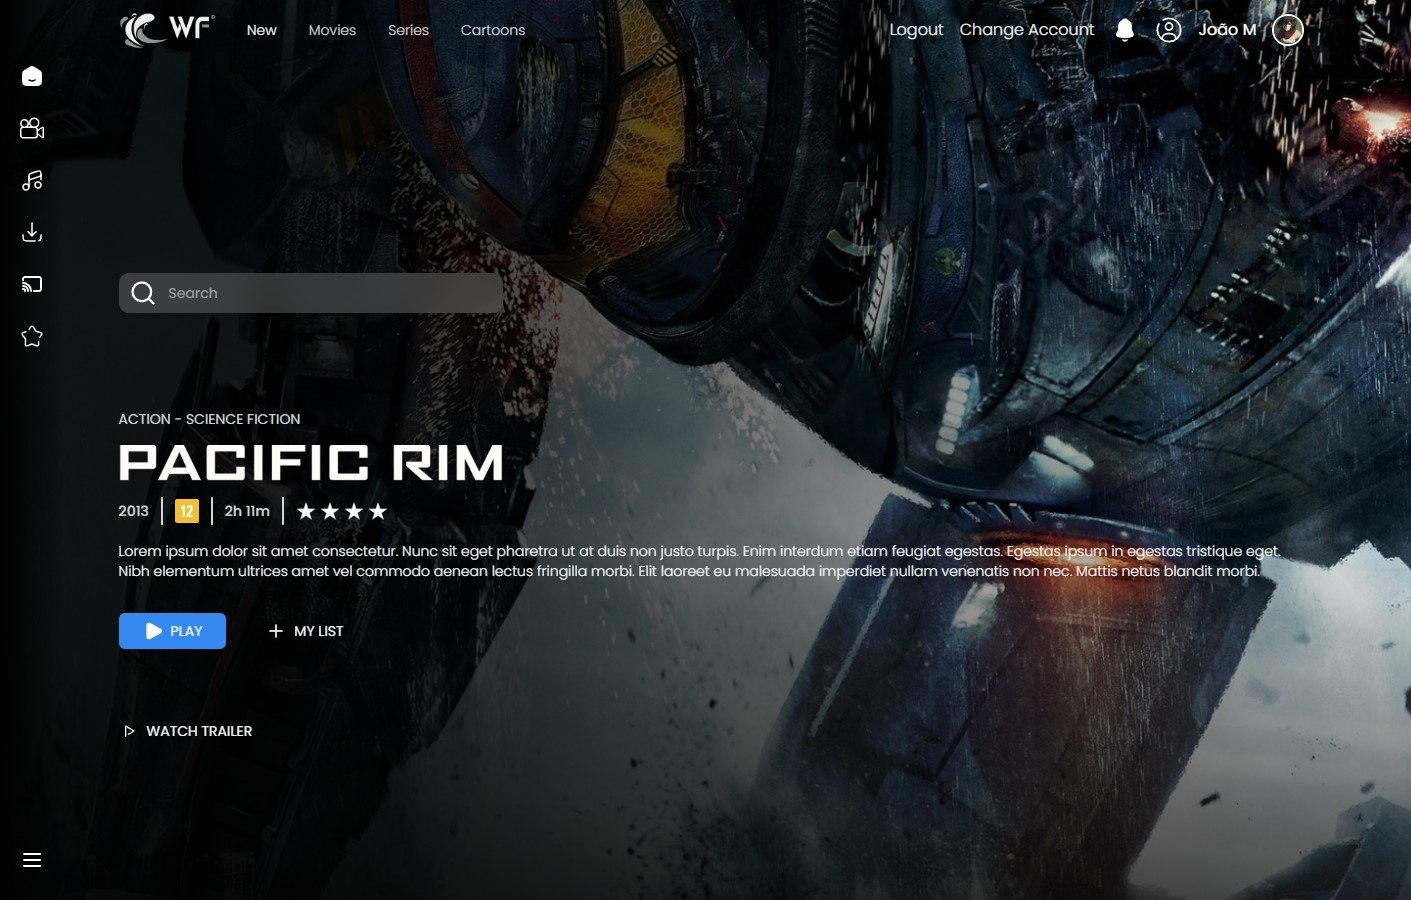
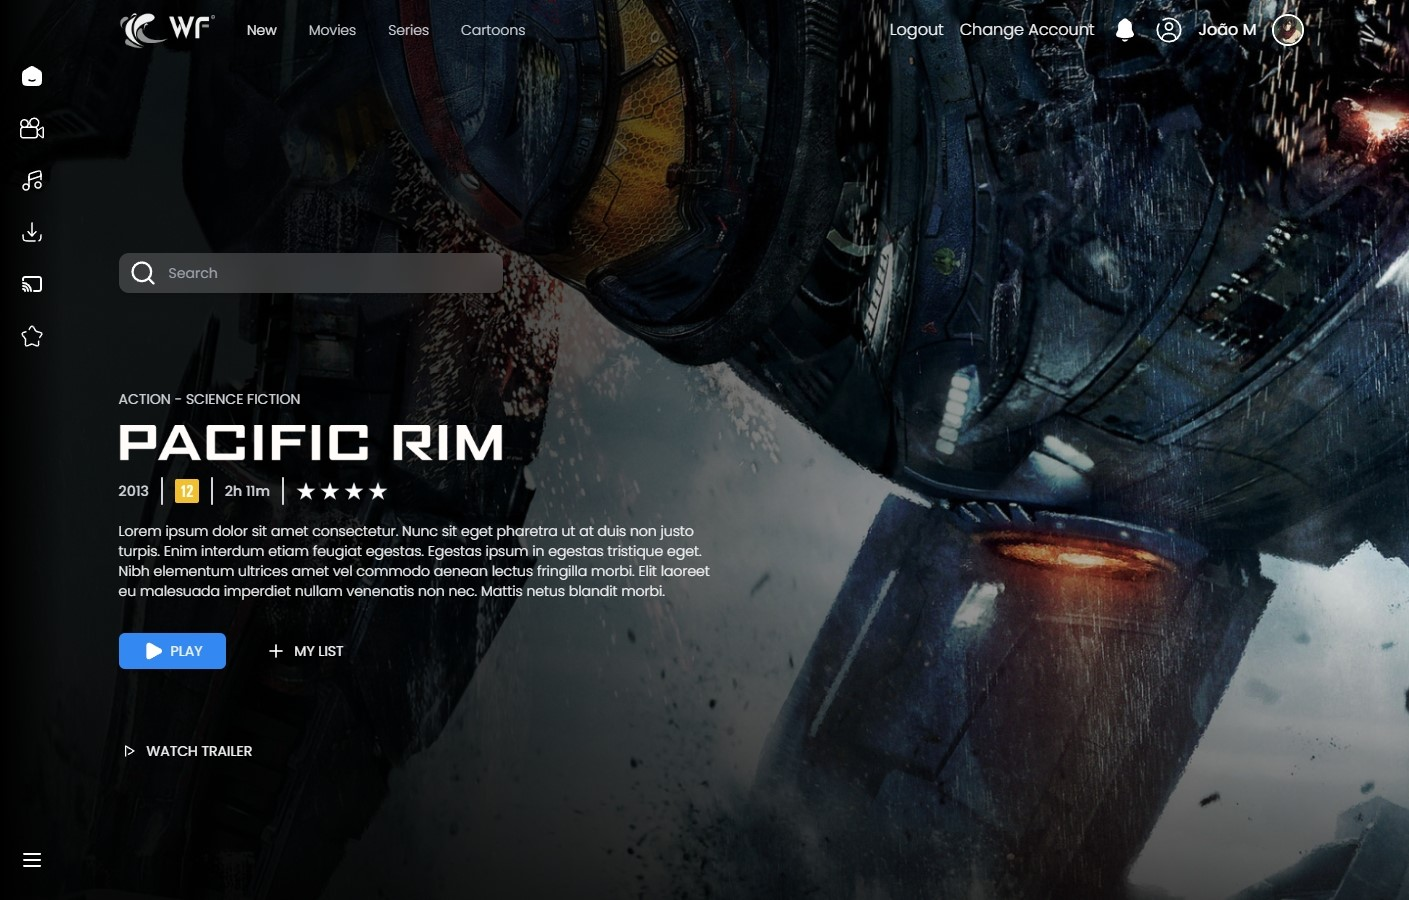
doc: final update 08-09 v02

diff --git a/src/pages/home/index.jsx b/src/pages/home/index.jsx
@@ -658,7 +658,7 @@ const Home = () => {
                   <img className="w-5" src={star_rating} alt="" />
                 </div>
               </div>
-              <p className="w-full tablet:w-full text-xs tablet:text-sm text-gray-100 font-light mb-8">
+              <p className="w-full tablet:w-full laptop:w-1/2 text-xs tablet:text-sm text-gray-100 font-light mb-8">
                 Lorem ipsum dolor sit amet consectetur. Nunc sit eget pharetra
                 ut at duis non justo turpis. Enim interdum etiam feugiat
                 egestas. Egestas ipsum in egestas tristique eget. Nibh elementum
